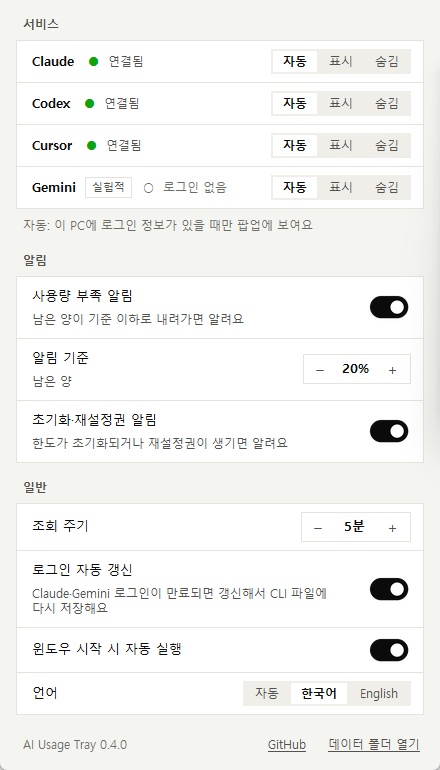
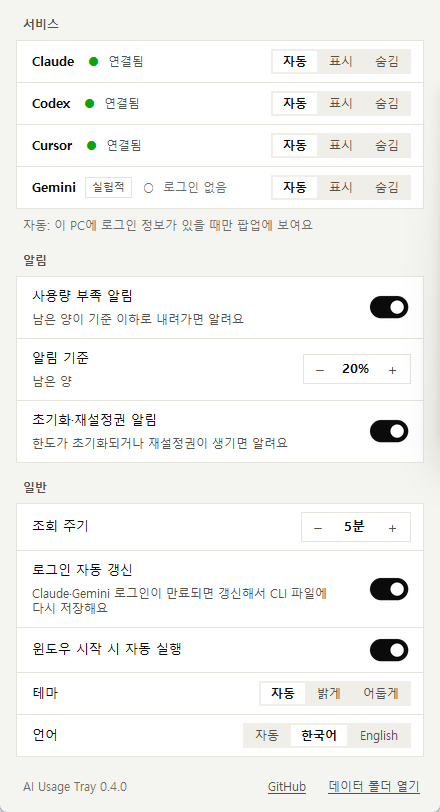
Theme setting: Auto / Light / Dark, applied at once
- New "Theme" row in Settings › General (Auto follows the Windows app
  mode, as before). Choosing one rebuilds the open popup, its panels and
  the settings window in the new colours; the popup reopens where it was.
- The popup binds its mouse-wheel handler only once, so rebuilding it
  does not stack handlers.
- README settings tables match the new wording; screenshots refreshed.

diff --git a/agent_usage/app.py b/agent_usage/app.py
@@ -77,7 +77,7 @@ class App:
         self.root.withdraw()
         self.root.report_callback_exception = lambda *exc: log.error("tk callback", exc_info=exc)
         self.scale = self.root.winfo_fpixels("1i") / 96
-        self.pal = theme.palette()
+        self.pal = theme.palette(self.settings["theme"])
         self.popup = Popup(self)
         self.settings_win: SettingsWindow | None = None
         self.icon = pystray.Icon("AgentUsage", tray_image("…", theme.STATUS["none"]), APP_NAME,
@@ -106,6 +106,8 @@ class App:
             self.popup.render_if_visible()
             self._update_tray()
             self.refresh()
+        elif key == "theme":
+            self.apply_theme()
         elif key == "language":
             i18n.set_language(value)
             self.icon.update_menu()
@@ -334,6 +336,16 @@ class App:
             self.post("login_done", pid)
         threading.Thread(target=wait, daemon=True).start()
 
+    def apply_theme(self) -> None:
+        """테마를 바꾸면 열린 창을 새 색으로 다시 만든다 (창의 색은 만들 때 정해진다)."""
+        pal = theme.palette(self.settings["theme"])
+        if pal is self.pal:
+            return
+        self.pal = pal
+        self.popup.recreate()
+        if self.settings_win and self.settings_win.alive():
+            self.settings_win.restyle()
+
     def open_settings(self) -> None:
         if self.settings_win and self.settings_win.alive():
             self.settings_win.focus()
@@ -367,6 +379,7 @@ class Popup:
         self._geom = None
         self._drag = (0, 0)
         self._scrolling = False
+        self._wheel_bound = False
         self.history = HistoryPanel(self)      # 팝업 옆에 붙는 사용 기록 패널
         self.activity = ActivityPanel(self)    # 그 바깥쪽에 붙는 작업 현황 패널
 
@@ -439,6 +452,18 @@ class Popup:
         if was_open[1]:
             self.activity.show()
 
+    def recreate(self) -> None:
+        """테마가 바뀌면 팝업과 옆 패널을 새 색으로 다시 만든다. 보이던 팝업은 그 자리에 다시 보인다."""
+        was_visible = self.visible
+        for w in (self.win, self.history.win, self.activity.win):
+            if w:
+                w.destroy()
+        self.win, self.body, self.refs, self._sig, self._geom = None, None, {}, None, None
+        self.visible, self._scrolling = False, False
+        self.history, self.activity = HistoryPanel(self), ActivityPanel(self)
+        if was_visible:
+            self.show()                        # 켜 둔 패널도 함께 다시 보인다
+
     def update_activity_count(self) -> None:
         """머리글 작업 현황 버튼 옆 숫자: 진행 중인 작업 수 (답을 기다리는 게 있으면 노란색)."""
         label = self.refs.get("activity_count")
@@ -468,7 +493,9 @@ class Popup:
         self.canvas.pack(side="left", fill="both", expand=True)
         self.frame = tk.Frame(self.canvas, bg=pal["bg"])
         self._frame_id = self.canvas.create_window(0, 0, window=self.frame, anchor="nw")
-        self.win.bind_all("<MouseWheel>", self._on_wheel, add="+")
+        if not self._wheel_bound:              # 테마를 바꿔 창을 다시 만들어도 한 번만 건다
+            self.win.bind_all("<MouseWheel>", self._on_wheel, add="+")
+            self._wheel_bound = True
 
     def show(self) -> None:
         if not self.win:

diff --git a/agent_usage/settings_window.py b/agent_usage/settings_window.py
@@ -19,6 +19,7 @@ from .providers import ALL
 from .store import DATA_DIR
 
 MODES = ("auto", "show", "hide")
+THEMES = ("auto", "light", "dark")
 LANGS = (("auto", None), ("ko", "한국어"), ("en", "English"))     # None: 화면 언어로 '자동'
 THRESHOLDS = (5, 10, 15, 20, 25, 30, 40, 50)                     # 부족 알림 기준(남은 양 %) 단계
 REFRESH_MINUTES = (2, 3, 5, 10, 15, 20, 30, 60)
@@ -321,6 +322,10 @@ class SettingsWindow:
         Switch(row, c, app.scale, winutil.autostart_enabled(), winutil.set_autostart).pack(side="right")
         self._labels(row, t("s_autostart"))
         row = self._row(card, 3)
+        Segmented(row, c, px, [(k, t(f"s_theme_{k}")) for k in THEMES], s["theme"] or "auto",
+                  lambda v: app.set_setting("theme", v)).pack(side="right")
+        self._labels(row, t("s_theme"))
+        row = self._row(card, 4)
         langs = [(k, name or t("s_lang_auto")) for k, name in LANGS]
         Segmented(row, c, px, langs, s["language"] or "auto", self._set_language).pack(side="right")
         self._labels(row, t("s_language"))
@@ -366,6 +371,14 @@ class SettingsWindow:
     def _on_wheel(self, e) -> None:
         if self.scrolling:
             self.canvas.yview_scroll(-1 if e.delta > 0 else 1, "units")
+
+    def restyle(self) -> None:
+        """테마가 바뀌면 새 색으로 다시 그린다 (누른 버튼이 든 화면을 그 처리 도중에 지우지 않게 다음 차례에)."""
+        self.dark = self.app.pal is theme.DARK
+        self.c = {**self.app.pal, **EXTRA["dark" if self.dark else "light"]}
+        self.win.configure(bg=self.c["win"])
+        winutil.dark_title_bar(self.win, self.dark)
+        self.win.after_idle(self.build)
 
     def refresh_status(self) -> None:
         for mod in ALL:

diff --git a/tests/test_settings_window.py b/tests/test_settings_window.py
@@ -55,5 +55,19 @@ class SwitchImageTest(unittest.TestCase):
         self.assertEqual(switch_image(False, True, colors, 1.5).size, (66, 42))
 
 
+class ThemeChoiceTest(unittest.TestCase):
+    def test_theme_setting_picks_the_palette(self):
+        from unittest import mock
+
+        from agent_usage import theme
+        self.assertIs(theme.palette("light"), theme.LIGHT)
+        self.assertIs(theme.palette("dark"), theme.DARK)
+        with mock.patch.object(theme, "is_light", lambda: True):
+            self.assertIs(theme.palette("auto"), theme.LIGHT)          # 자동: Windows 앱 모드를 따른다
+        with mock.patch.object(theme, "is_light", lambda: False):
+            self.assertIs(theme.palette("auto"), theme.DARK)
+            self.assertIs(theme.palette(), theme.DARK)
+
+
 if __name__ == "__main__":
     unittest.main()

diff --git a/agent_usage/i18n.py b/agent_usage/i18n.py
@@ -86,6 +86,7 @@ KO = {
     "s_auto_refresh_help": "Claude·Gemini 로그인이 만료되면 갱신해서 CLI 파일에 다시 저장해요",
     "s_autostart": "윈도우 시작 시 자동 실행",
     "s_language": "언어", "s_lang_auto": "자동",
+    "s_theme": "테마", "s_theme_auto": "자동", "s_theme_light": "밝게", "s_theme_dark": "어둡게",
     "s_data": "데이터 폴더 열기",
 }
 
@@ -163,6 +164,7 @@ EN = {
     "s_auto_refresh_help": "When a Claude or Gemini login expires, renew it and save it back to that CLI's file",
     "s_autostart": "Start with Windows",
     "s_language": "Language", "s_lang_auto": "Auto",
+    "s_theme": "Theme", "s_theme_auto": "Auto", "s_theme_light": "Light", "s_theme_dark": "Dark",
     "s_data": "Open data folder",
 }
 

diff --git a/agent_usage/store.py b/agent_usage/store.py
@@ -123,6 +123,7 @@ DEFAULTS = {
     "notify_reset": True,
     "auto_refresh_login": True, # 만료된 Claude·Gemini CLI 로그인을 갱신해 다시 저장
     "language": "auto",         # "auto" | "ko" | "en"
+    "theme": "auto",            # "auto"(Windows 앱 모드) | "light" | "dark"
     "pinned": False,
     "pin_pos": None,            # [x, y]
     "history_range_hours": 24,  # 사용 기록 패널 기간

diff --git a/agent_usage/theme.py b/agent_usage/theme.py
@@ -44,7 +44,12 @@ def is_light() -> bool:
         return False
 
 
-def palette() -> dict:
+def palette(choice: str = "auto") -> dict:
+    """설정의 테마: "light" | "dark" | "auto"(Windows 앱 모드를 따른다)."""
+    if choice == "light":
+        return LIGHT
+    if choice == "dark":
+        return DARK
     return LIGHT if is_light() else DARK
 
 

diff --git a/README.ko.md b/README.ko.md
@@ -74,12 +74,13 @@ git이 없으면 GitHub에서 ZIP으로 내려받아 압축을 풀고, `install.
 
 | 항목 | 기본값 |
 |---|---|
-| 서비스별 표시: 자동(로그인돼 있으면) / 항상 표시 / 숨기기 | 자동 |
-| 남은 양이 …% 이하로 내려가면 알림 | 20% |
-| 한도 초기화·재설정권이 생기면 알림 | 켜짐 |
+| 서비스별 표시: 자동(로그인돼 있으면) / 표시 / 숨김 | 자동 |
+| 사용량 부족 알림 · 알림 기준(남은 양) | 켜짐 · 20% |
+| 초기화·재설정권 알림 | 켜짐 |
 | 조회 주기 | 5분 |
 | 로그인 자동 갱신 (Claude · Gemini) | 켜짐 |
 | 윈도우 시작 시 자동 실행 | 꺼짐 |
+| 테마: 자동(Windows 앱 모드를 따름) / 밝게 / 어둡게 | 자동 |
 | 언어: 자동 / 한국어 / English | 자동 |
 
 설정·기록·로그는 `%USERPROFILE%\.ai-usage-tray`에 저장돼요.

diff --git a/README.md b/README.md
@@ -74,12 +74,13 @@ Open **Settings…** from the tray menu or the ⚙ button in the popup.
 
 | Setting | Default |
 |---|---|
-| Show each service: Auto (when signed in) / Always / Hide | Auto |
-| Alert when remaining drops to … % | 20% |
-| Alert when a limit resets or a reset credit arrives | On |
-| Refresh every … minutes | 5 |
+| Show each service: Auto (when signed in) / Show / Hide | Auto |
+| Low usage alert · threshold (remaining) | On · 20% |
+| Reset alerts (a limit resets or a reset credit arrives) | On |
+| Refresh every | 5 min |
 | Renew logins automatically (Claude · Gemini) | On |
 | Start with Windows | Off |
+| Theme: Auto (follows the Windows app mode) / Light / Dark | Auto |
 | Language: Auto / 한국어 / English | Auto |
 
 Settings, history and logs live in `%USERPROFILE%\.ai-usage-tray`.
